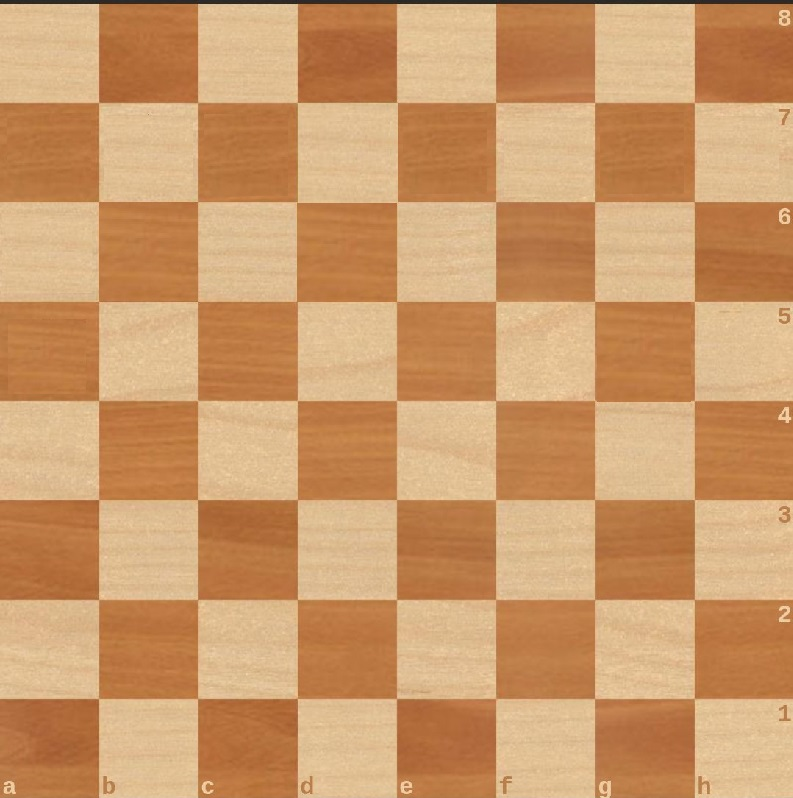
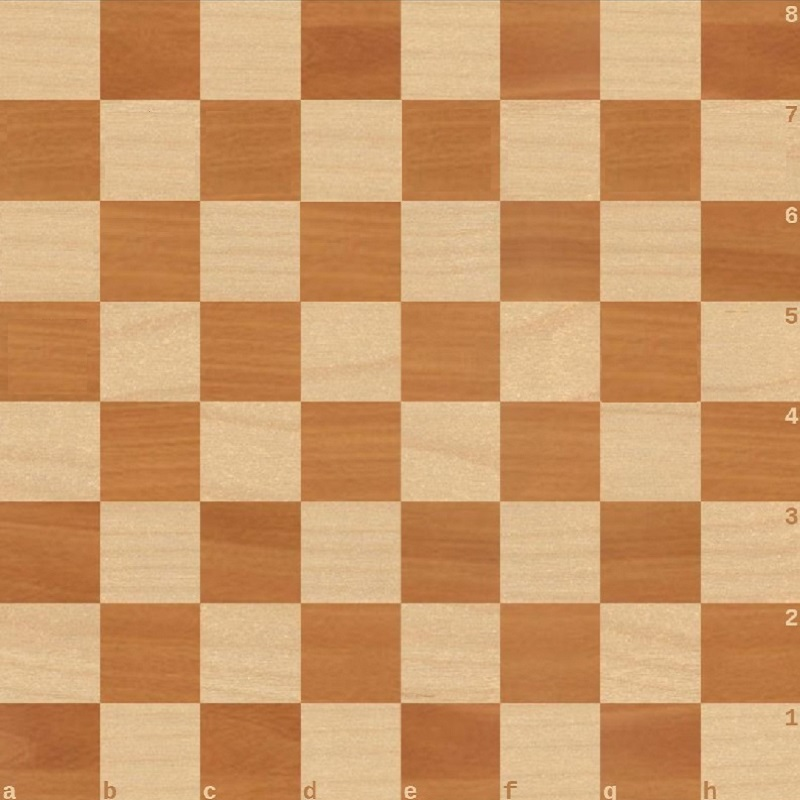
dodanie warunku do pata, dodanie funkcji obliczającej odległosci pól od siebie, wrzucenie do configa szerokosci ekranu

diff --git a/obsluga_gry/figury_mozliwosc_ruchu.py b/obsluga_gry/figury_mozliwosc_ruchu.py
@@ -1,7 +1,6 @@
 #! /usr/bin/env python3
 # -*- coding: utf-8 -*-
 
-from .config import lista_szerokosci, lista_wysokosci, warunki_biale, warunki_czarne
 from tools.narzedzia_pol import zmienWspolrzedneNaPole, wyznaczWspolrzednePoPozycji, czyWszpolrzedneWPolu
 from tools.narzedzia_pol import zmienListeWspolrzednychNaPola, zmienListePolNaWspolrzedne
 from tools.narzedzia_pol import zmienListePolNaWspolrzedneZeSprawdzeniem, zmienListeWspolrzednychNaPolaZeSprawdzeniem
@@ -9,6 +8,13 @@ from tools.narzedzia_figur import NarzedziaSzukaniaBierek
 from tools.narzedzia_matow import NarzedziaMatow
 from tools.narzedzia_szachow import czyKrolWSzachu
 from tools.narzedzia_wyznaczania_ruchow import NarzedziaWyznaczaniaRuchow
+from .config import (
+    lista_szerokosci,
+    lista_wysokosci,
+    warunki_biale,
+    warunki_czarne,
+    szerokosc_pola,
+)
 
 
 class MozliwoscRuchuBierki(object):
@@ -81,12 +87,12 @@ class MozliwoscRuchuBierki(object):
             if warunki_biale in obiekt_bierki.nazwa:
                 mozliwe_ruchy.append({
                     'x': obiekt_bierki.pozycja_x,
-                    'y': obiekt_bierki.pozycja_y - 100*ruch
+                    'y': obiekt_bierki.pozycja_y - szerokosc_pola*ruch
                 })
             else:
                 mozliwe_ruchy.append({
                     'x': obiekt_bierki.pozycja_x,
-                    'y': obiekt_bierki.pozycja_y + 100*ruch
+                    'y': obiekt_bierki.pozycja_y + szerokosc_pola*ruch
                 })
         mozliwe_ruchy = zmienListeWspolrzednychNaPolaZeSprawdzeniem(mozliwe_ruchy)
         mozliwe_ruchy = self.sprawdzCzyZawadzaPrzeciwnik(mozliwe_ruchy)
@@ -357,10 +363,10 @@ class MozliwoscRuchuBierki(object):
         return ret
 
     def zmniejszWspolrzednaOXSetekPx(self, wspolrzedna, x):
-        return wspolrzedna - x*100
+        return wspolrzedna - x*szerokosc_pola
 
     def zwiekszWspolrzednaOXSetekPx(self, wspolrzedna, x):
-        return wspolrzedna + x*100
+        return wspolrzedna + x*szerokosc_pola
 
     def wykreslPolaBitePrzezPrzeciwnikow(self, obiektKrola, mozliwe_ruchy):
         if warunki_biale in obiektKrola.nazwa:

diff --git a/tools/narzedzia_pol.py b/tools/narzedzia_pol.py
@@ -2,8 +2,35 @@
 # -*- coding: utf-8 -*-
 
 from livewires import games
+from math import fabs  # funkcja służąca do obliczania wartoci bezwzględnej
 
-from obsluga_gry.config import lista_szerokosci, lista_wysokosci, warunki_biale, warunki_czarne
+from obsluga_gry.config import (
+    lista_szerokosci,
+    lista_wysokosci,
+    warunki_biale,
+    warunki_czarne,
+    szerokosc_pola,
+    srodek_pola,
+)
+
+
+def dajOdlegloscPolaDoCentrum(pole):
+    pole = naprawPole(pole)
+    idx_szerokosci = lista_szerokosci.index(pole[0])
+    idx_wysokosci = lista_wysokosci.index(pole[1])
+    return 7 - fabs(3.5-idx_szerokosci) + fabs(3.5-idx_wysokosci)
+
+
+def dajOdlegloscMiedzyPolami(pole_a, pole_b):
+    pole_a = naprawPole(pole_a)
+    pole_b = naprawPole(pole_b)
+
+    idx_szrksc_a = lista_szerokosci.index(pole_a[0])
+    idx_szrksc_b = lista_szerokosci.index(pole_b[0])
+    idx_wsksc_a = lista_wysokosci.index(pole_a[1])
+    idx_wsksc_b = lista_wysokosci.index(pole_b[1])
+
+    return 7 - fabs(idx_szrksc_a-idx_szrksc_b) + fabs(idx_wsksc_a-idx_wsksc_b)
 
 
 def zmienListePolNaWspolrzedneZeSprawdzeniem(lista_pol):
@@ -29,7 +56,7 @@ def wyznaczWspolrzednePoPozycji(pole):
 
 
 def dajWspolrzedna(i):
-    return (50+(i*100))
+    return (srodek_pola+(i*szerokosc_pola))
 
 
 def zmienListeWspolrzednychNaPolaZeSprawdzeniem(lista_wspolrzednych):
@@ -55,7 +82,7 @@ def zmienWspolrzedneNaPole(x, y):
 
 
 def dajIndexPola(wspolrzedna):
-    return int(((wspolrzedna - 50)/100))
+    return int(((wspolrzedna - srodek_pola)/szerokosc_pola))
 
 
 def myszNadObiektem(obiekt):
@@ -71,10 +98,10 @@ def myszNadObiektem(obiekt):
 
 def dajPunktyGranicznePola(obiekt):
     return {
-        'prawa': obiekt.pozycja_x + 49,
-        'lewa': obiekt.pozycja_x - 49,
-        'gorna': obiekt.pozycja_y + 49,
-        'dolna': obiekt.pozycja_y - 49,
+        'prawa': obiekt.pozycja_x + srodek_pola,
+        'lewa': obiekt.pozycja_x - srodek_pola,
+        'gorna': obiekt.pozycja_y + srodek_pola,
+        'dolna': obiekt.pozycja_y - srodek_pola,
     }
 
 

diff --git a/wyswietlenie_grafik/figury.py b/wyswietlenie_grafik/figury.py
@@ -8,7 +8,7 @@ from .mozliwy_ruch import PodswietlMozliwyRuch, PodswietlMozliweBicie, Podswietl
 from tools.narzedzia_pol import myszNadObiektem, wyznaczWspolrzednePoPozycji
 from obsluga_gry.figury_mozliwosc_ruchu import MozliwoscRuchuBierki
 from obsluga_gry.kolejnosc_ruchu import KolejnoscRuchu
-from obsluga_gry.config import warunki_biale, warunki_czarne
+from obsluga_gry.config import warunki_biale, warunki_czarne, szerokosc_ekranu
 
 
 class Figury(games.Sprite):
@@ -19,7 +19,7 @@ class Figury(games.Sprite):
         self.pozycja = pozycja
         self.pozycja_x = wspolrzedne['x']
         self.pozycja_y = wspolrzedne['y']
-        self.kolor = warunki_biale if self.pozycja_y > 400 else warunki_czarne
+        self.kolor = warunki_biale if self.pozycja_y > szerokosc_ekranu/2 else warunki_czarne
         self.nazwa = self.kolor + '_' + figura
         self.ikona = self.nadajIkone()
         self.mozliwe_ruchy = {'ruch': [], 'bicie': []}

diff --git a/obsluga_gry/warunki_wygranej.py b/obsluga_gry/warunki_wygranej.py
@@ -35,11 +35,18 @@ class WarunkiWygranej(object):
             self.wyswietlKomunikat('Pat!', koniecGry)
 
     def sprawdzCzyPat(self):
+        if (
+            len(self.bierki_broniace) == 1 and len(self.bierki_ruszajace) == 1 and
+            'krol' in self.bierki_broniace[0].nazwa and 'krol' in self.bierki_ruszajace[0].nazwa
+        ):
+            return True
+
         for bierka in self.bierki_broniace:
             mrb = MozliwoscRuchuBierki(bierka)
             pola = mrb.sprawdzMozliweRuchy()
             if pola['ruch'] or pola['bicie'] or pola.get('roszada'):
                 return False
+
         return True
 
     def sprawdzCzyMat(self):

diff --git a/main.py b/main.py
@@ -6,14 +6,14 @@ from PyQt5.QtWidgets import QGridLayout, QPushButton
 from PyQt5.QtCore import Qt
 
 from wyswietlenie_grafik.screen import rozpocznijGre
-from otwarcia.pokaz_otwarcia import PokazOtwarcia
+# from otwarcia.pokaz_otwarcia import PokazOtwarcia
 from funkcje_wyswietlania import konfiguracjaOkna
 
 
 class OknoStartoweSzachy(QWidget):
     def __init__(self, parent=None):
         super().__init__(parent)
-        pokazOtwarcia = PokazOtwarcia()
+        # pokazOtwarcia = PokazOtwarcia()
         self.interfejs()
 
     def interfejs(self):

diff --git a/wyswietlenie_grafik/screen.py b/wyswietlenie_grafik/screen.py
@@ -5,10 +5,11 @@ import sys
 from livewires import games
 
 from .tworzenie_figur import pokazFigury
+from obsluga_gry.config import wysokosc_ekranu, szerokosc_ekranu
 
 
 def rozpocznijGre():
-    games.init(screen_width=793, screen_height=798, fps=50)
+    games.init(screen_width=szerokosc_ekranu, screen_height=wysokosc_ekranu, fps=50)
     wall_image = games.load_image("wyswietlenie_grafik/Grafiki/chess.jpg", False)
 
     games.screen.background = wall_image

diff --git a/obsluga_gry/config.py b/obsluga_gry/config.py
@@ -8,6 +8,11 @@ warunki_czarne = 'czarny'
 lista_szerokosci = ['a', 'b', 'c', 'd', 'e', 'f', 'g', 'h']
 lista_wysokosci = ['8', '7', '6', '5', '4', '3', '2', '1']
 
+szerokosc_ekranu = 800
+wysokosc_ekranu = szerokosc_ekranu
+szerokosc_pola = szerokosc_ekranu/8
+srodek_pola = szerokosc_pola/2
+
 slownik_bierek = {
     'pion': [],
     'skoczek': [],
